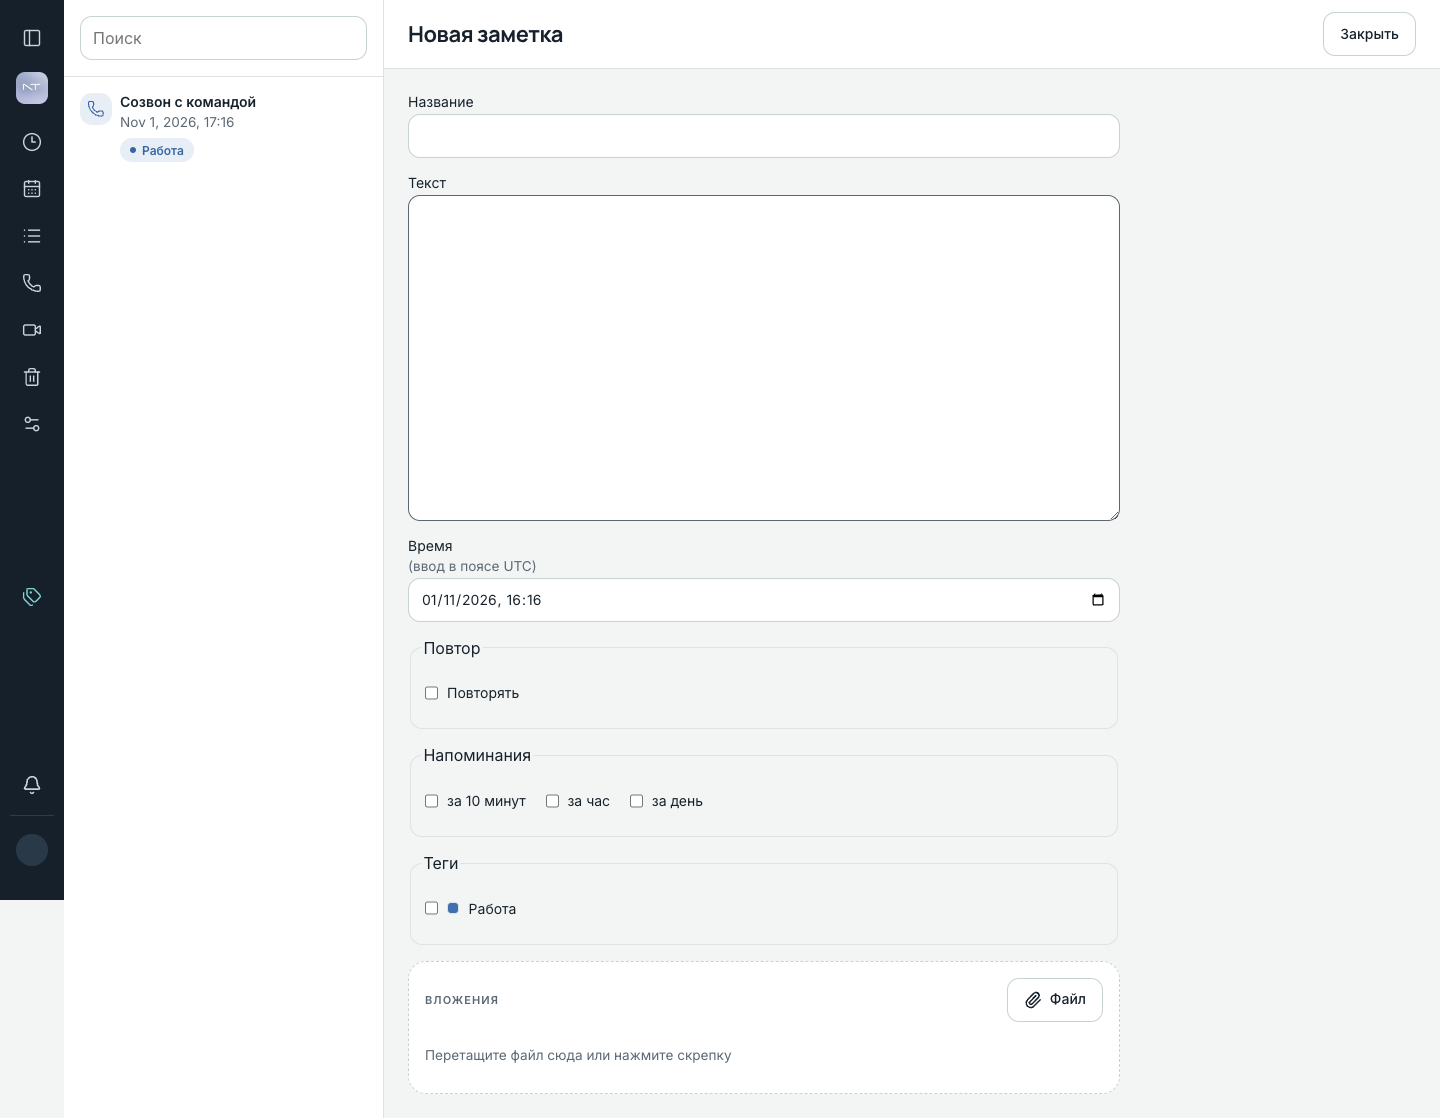
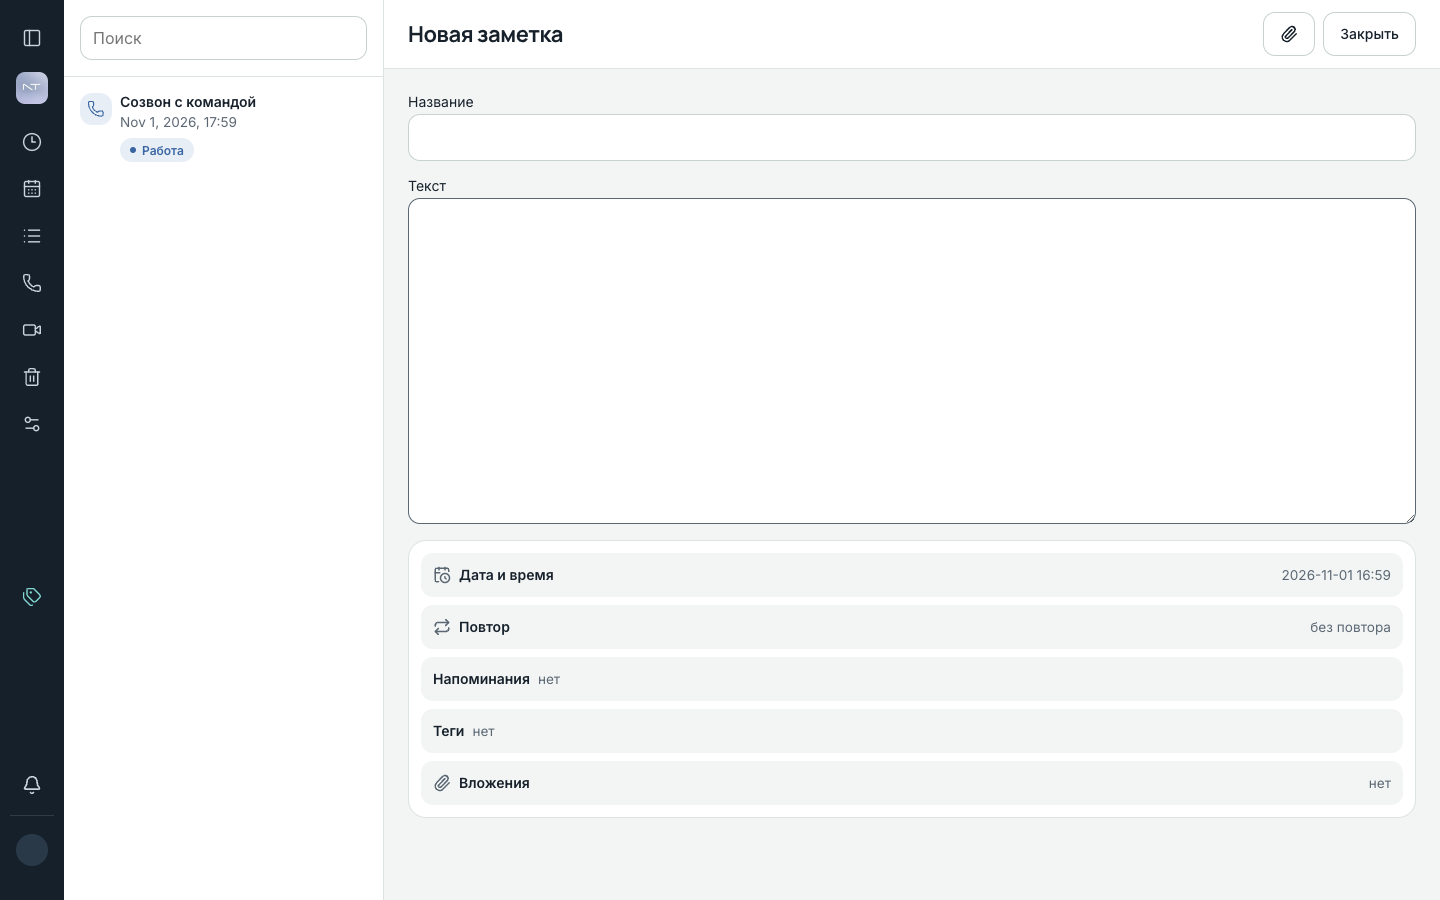
M15: D-092, FRONTEND §6, STATUS и скрины редактора

diff --git a/docs/FRONTEND.md b/docs/FRONTEND.md
@@ -95,15 +95,16 @@
 при нехватке места переносится целая группа фильтров, а не один элемент. Виртуальная прокрутка и серверный поиск остаются.
 
 **Страница заметки** (`/notes/new`, `/notes/:id`). Не модалка: полноэкранный редактор. При открытии левая панель принудительно
-64px; между ней и редактором — колонка списка заметок 320px (поиск, компактные строки, выбранная выделена); редактор занимает остаток,
-текст ограничен `max-width: 760px` и выровнен влево. Поля: название, текст (многострочный, ≥12 строк, растёт по содержимому), время,
-повтор, напоминания (чекбоксы «за 10 минут» / «за час» / «за день» в один ряд; предупреждение «уже не сработает» — отдельной строкой
-под рядом), теги. **Автосохранение (D-057):** без кнопки «Сохранить»; в шапке статус «Сохранение…» / «Сохранено» и кнопка «Закрыть».
-Пустой `/notes/new` не пишет в БД; первый текст или файл → create; дальше PATCH с debounce 600 мс. Черновик новой заметки
-и очередь файлов до `note_id` — в **IndexedDB** (`notetaker-drafts`), переживают reload. Слот вложений (M9): скрепка,
-drag-and-drop, превью (lightbox), документы списком, прогресс и ошибки по-русски; до create — локальная очередь с пометкой
-«ожидает сохранения». У заметок с файлами — скрепка в списке и календаре. Боковая панель календаря по-прежнему с явным
-«Сохранить». На телефоне (≤640px) страница на весь экран, колонка списка скрыта.
+64px; между ней и редактором — колонка списка заметок 320px (поиск, компактные строки, выбранная выделена); редактор занимает
+всю оставшуюся ширину (название и текст без `max-width` 760px — D-092). Поля: название, текст (многострочный, ≥12 строк,
+растёт по содержимому; DnD файлов на область текста). Мета-параметры свёрнуты по умолчанию и раскрываются: дата/время, повтор
+(иконка Repeat), напоминания (чекбоксы «за 10 минут» / «за час» / «за день»), теги (`TagMultiSelect` + чипы), вложения
+(скрепка-иконка). **Автосохранение (D-057):** без кнопки «Сохранить»; в шапке статус «Сохранение…» / «Сохранено», скрепка и
+«Закрыть». Пустой `/notes/new` не пишет в БД; первый текст или файл → create; дальше PATCH с debounce 600 мс. Черновик новой
+заметки и очередь файлов до `note_id` — в **IndexedDB** (`notetaker-drafts`), переживают reload. Вложения (M9): скрепка,
+DnD на текст, превью (lightbox), список в раскрытии; до create — локальная очередь. У заметок с файлами — скрепка в списке и
+календаре. Боковая панель календаря по-прежнему с явным «Сохранить». На телефоне (≤640px) страница на весь экран, колонка
+списка скрыта.
 
 **Корзина.** Строка с иллюстрацией, пилюлей, под названием «исчезнет через N дн.» с полоской из 30 дней, кнопки «Восстановить» и «Удалить навсегда».
 

diff --git a/docs/DECISIONS.md b/docs/DECISIONS.md
@@ -659,3 +659,9 @@ API: `notifications.note_id` (миграция 008, backfill из reminders; acc
 **Альтернативы:** NowContext + memo строк; один общий таймер на app.
 **Причина:** цифры не показывают проблему «лишних» рендеров; единственный заметный кадр — пересчёт бакетов на тике (~78 ms / 30 с) — приемлемо. Правки без измеримой пользы запрещены уточнением к M15.
 **Последствия:** при росте стоимости `liveBuckets` — точечно мемоизировать бакеты, не трогая shell.
+
+### D-092 · 2026-11-01 22:37 +06 · M15 · Редактор на всю ширину + компактные мета-секции
+**Решение:** убрать `max-width: var(--note-text-max)` у `.note-editor-body`; заголовок/текст на всю ширину панели редактора. Мета (время, повтор, напоминания, теги, вложения) — `EditorMetaDisclosure` (свёрнуто по умолчанию, значения в summary). Теги — `TagMultiSelect` (мультивыбор + поиск при ≥8). Вложения: DnD на область текста, скрепка-иконка без «Перетащите файл сюда»; список файлов в раскрытии. Без смены autosave/API. Отступление от FRONTEND §6 («текст max 760px») — зафиксировано здесь.
+**Альтернативы:** оставить 760px и центрировать; аккордеон на всю страницу; теги как прежде чекбоксами.
+**Причина:** пустое поле справа и «Закрыть» у края при узком столбце; пользовательский запрос на компактные параметры без потери функций.
+**Последствия:** e2e, ожидавшие видимые reminder/recurrence без клика, раскрывают секцию; FRONTEND §6 обновлён ссылкой на D-092.

diff --git a/STATUS.md b/STATUS.md
@@ -283,6 +283,13 @@
 - `make test` → **94 passed**.
 - `make e2e` → **69 passed** (chromium полный suite + `m15_layout` на firefox/webkit); ширины 390–1920, без h-scroll.
 
+### Смоки M15 редактор (2026-11-01 23:02 +06)
+**Исправлено (D-092):** редактор на всю ширину панели (без max 760px); мета — `EditorMetaDisclosure` (время/повтор/напоминания/теги/вложения); теги — `TagMultiSelect` + чипы; DnD файла на текст + скрепка; бизнес-логика autosave/API без изменений.
+**Автоматически:**
+- `make test` → **94 passed**.
+- `make e2e` → **81 passed** (вкл. `m15_editor_*` на chromium/firefox/webkit + прежние `m15_layout`); адаптация `reminder_ui`/`timezone`/`attachments_m9`/`autosave_m9`/`m8_2` — раскрытие meta перед взаимодействием.
+**Работает:** title/body ≥70% ширины pane; meta свёрнута по умолчанию, значения сохраняются; paperclip + drop на body; sidebar collapse не ломает ширину.
+
 ## Следующий заход
 - Web Push / Service Worker.
 - Интервал повтора и сложные правила («каждый второй вторник»).
